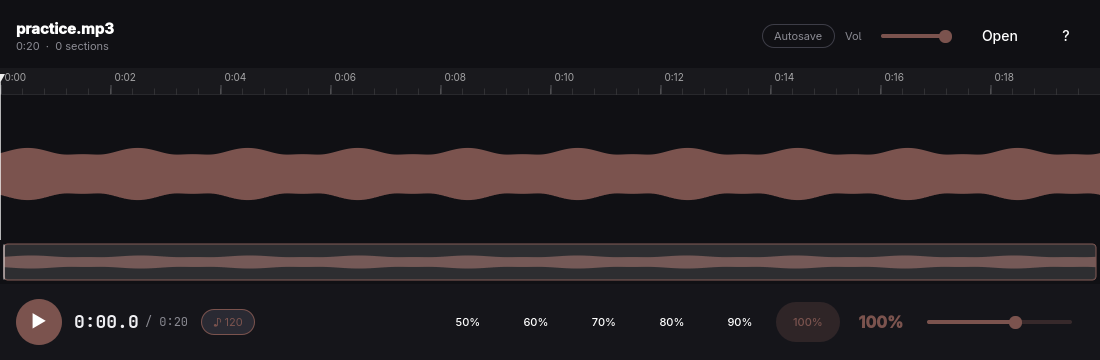
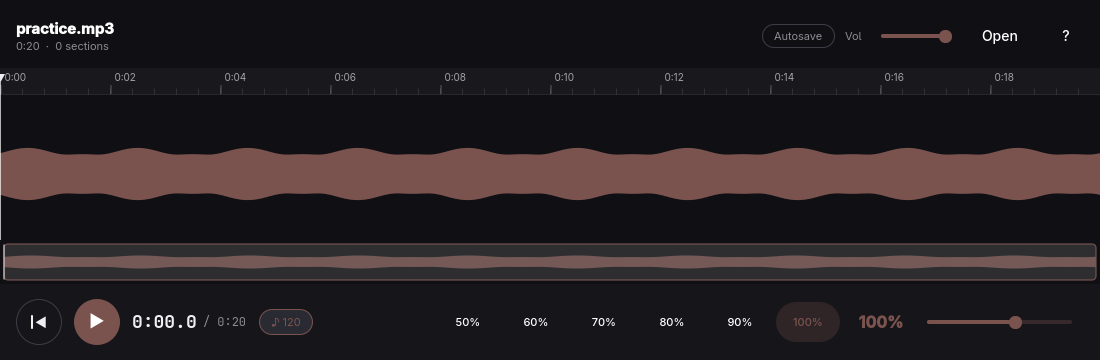
Back-to-start button: |< beside Play
Backend::rewindToStart drops the selection (the loop falls back to the
whole track), parks the start cursor and the playhead at zero, and
replays from the top if the track was playing — a stopped track stays
stopped. Sections survive: they are marks, not cursors.

The transport bar gets the classic |< circle left of Play, outlined
like the metronome chip so the accent-filled Play stays the primary
action. Tests cover the stopped branch (selection dropped, cursors at
zero, nothing starts playing).

Changed region(s): [[0.0, 0.825, 0.3091, 0.9778]]

diff --git a/src/Main.qml b/src/Main.qml
@@ -487,6 +487,45 @@ ApplicationWindow {
                     anchors.rightMargin: 16
                     spacing: 12
 
+                    // |◀ Back to start: the selection drops and every marker
+                    // parks at zero; a running track keeps playing from the
+                    // top, a stopped one stays stopped.
+                    Rectangle {
+                        width: 46
+                        height: 46
+                        radius: 23
+                        color: rewindMouse.containsMouse ? "#22ffffff" : "transparent"
+                        border.color: "#3d3d47"
+                        border.width: 1
+                        Row {
+                            anchors.centerIn: parent
+                            spacing: 2
+                            Rectangle {
+                                width: 2
+                                height: 14
+                                radius: 1
+                                color: "#f0f0f4"
+                                anchors.verticalCenter: parent.verticalCenter
+                            }
+                            Label {
+                                text: "◀"
+                                color: "#f0f0f4"
+                                font.pixelSize: 13
+                                anchors.verticalCenter: parent.verticalCenter
+                            }
+                        }
+                        MouseArea {
+                            id: rewindMouse
+                            anchors.fill: parent
+                            hoverEnabled: true
+                            cursorShape: Qt.PointingHandCursor
+                            onClicked: backend.rewindToStart()
+                            ToolTip.visible: rewindMouse.containsMouse
+                            ToolTip.delay: 600
+                            ToolTip.text: qsTr("Back to start: cursors to zero; if playing, it keeps playing from zero")
+                        }
+                    }
+
                     Rectangle {
                         width: 46
                         height: 46

diff --git a/tests/riffer_tests.cpp b/tests/riffer_tests.cpp
@@ -253,6 +253,22 @@ private slots:
             QCOMPARE(backend.sectionAtTime(0.2), 0);
             QCOMPARE(backend.sectionAtTime(0.95), -1);
 
+            // |◀ Back to start while stopped: the selection drops, every
+            // marker parks at zero, and nothing starts playing.
+            backend.setCursor(0.3);
+            backend.rewindToStart();
+            QVERIFY(!backend.playing());
+            QVERIFY(!backend.hasSelection());
+            QCOMPARE(backend.loopMode(), 0);
+            QCOMPARE(backend.cursor(), 0.0);
+            QCOMPARE(backend.playhead(), 0.0);
+            QCOMPARE(backend.sections().size(), 1); // sections are marks, not cursors
+
+            // Practice goes on: the passage is selected again for the state
+            // the sidecar below is about to capture.
+            backend.select(0.1, 0.6);
+            QCOMPARE(backend.loopMode(), 2);
+
             // Persistence is opt-in; enabling it writes the sidecar at once.
             backend.setPersist(true);
             QTRY_VERIFY_WITH_TIMEOUT(QFile::exists(Backend::sidecarPath(track)), 4000);

diff --git a/src/backend.cpp b/src/backend.cpp
@@ -218,6 +218,23 @@ void Backend::togglePlay() {
     }
 }
 
+void Backend::rewindToStart() {
+    if (!ready())
+        return;
+    const bool wasPlaying = m_player.playing();
+    if (wasPlaying) {
+        m_player.stop();
+        m_tick.stop();
+    }
+    // Everything back to the top: the selection drops (so the loop is the
+    // whole track again), the start cursor and the playhead park at zero.
+    clearSelection();
+    setCursor(0);
+    setPlayhead(0);
+    if (wasPlaying)
+        togglePlay(); // applyLoopToPlayer + play() restart from the loop start: zero
+}
+
 void Backend::applyLoopToPlayer() {
     if (!ready())
         return;

diff --git a/src/backend.h b/src/backend.h
@@ -101,6 +101,7 @@ public slots:
     Q_INVOKABLE void open();                     // through the portal picker
     Q_INVOKABLE void openPath(const QUrl &url);
     Q_INVOKABLE void togglePlay();
+    Q_INVOKABLE void rewindToStart();            // |◀: cursors to zero, keep playing if playing
     Q_INVOKABLE void nudgeSpeed(double delta);
     Q_INVOKABLE void nudgeVolume(double delta);  // arrow up/down, ±delta
     Q_INVOKABLE void seekRelative(double delta); // arrows; moves the start cursor while stopped
